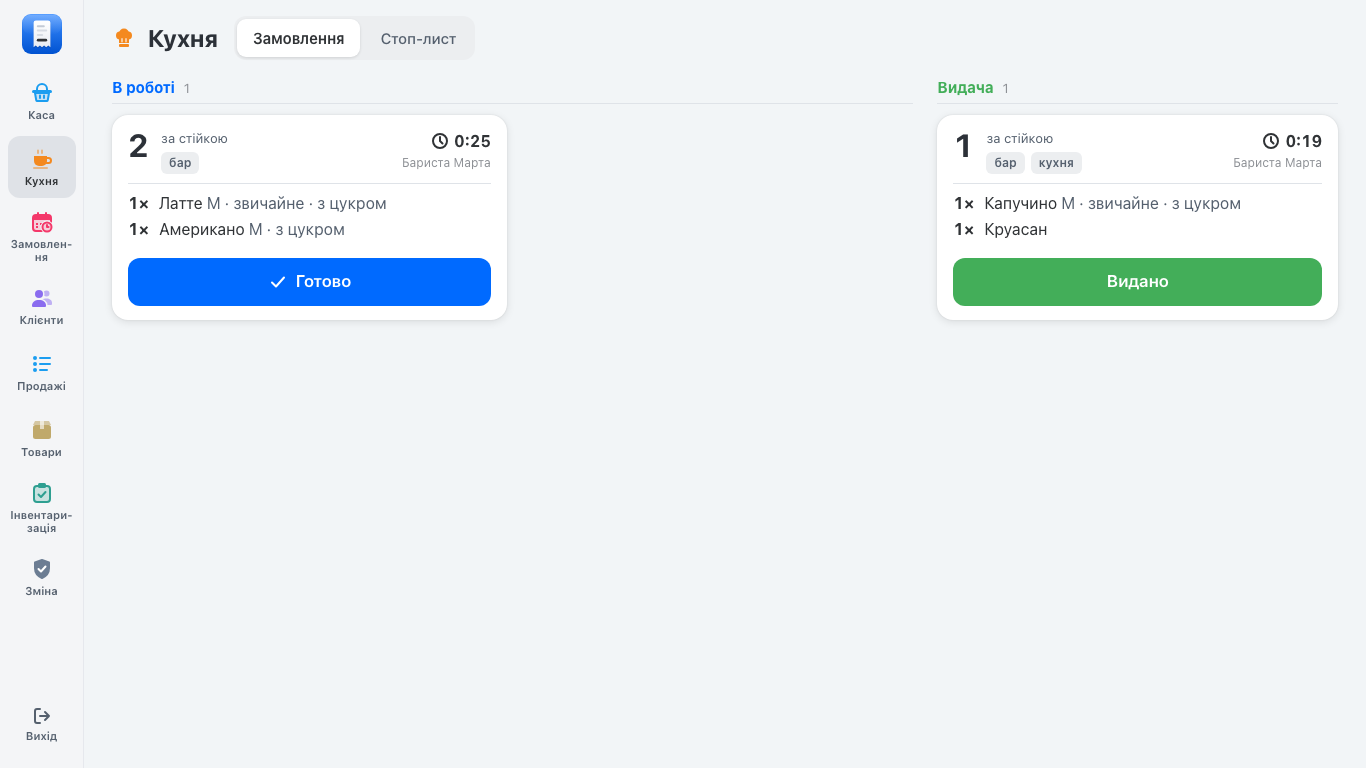
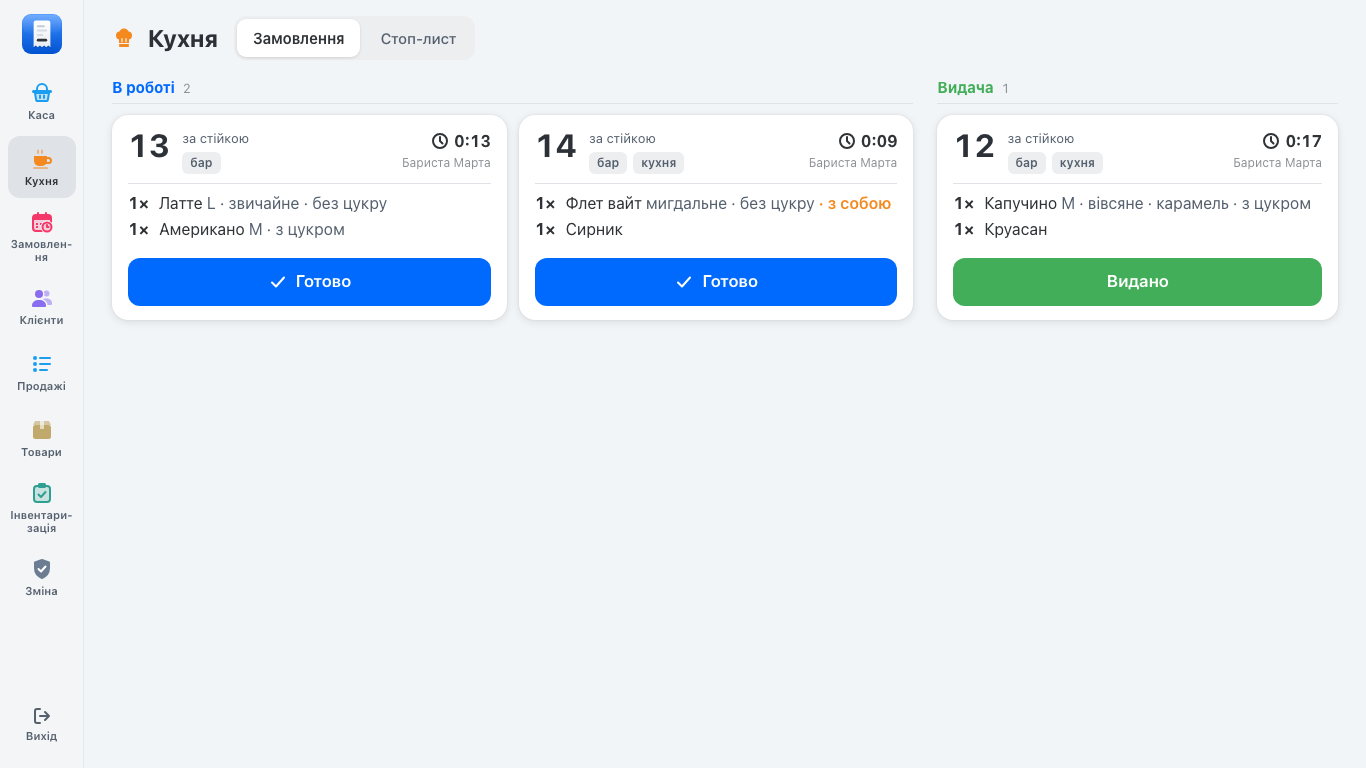
Сайт: свіжі знімки кафе й ресторану — жива кухня, аналітика, дашборд власника (#328)
* Сайт: свіжі знімки кафе — жива кухня, каса без «немає», рядок «Аналітика» з матрицею меню

Демо-кафе на проді отримало місяць історії (1261 чек 20.09–26.10, прихід,
виробництво сендвічів, списання за причинами кухні), тож знімки — з даними:

- cafe-kitchen: три замовлення, «В роботі» і «Видача» (старий знімок
  вересня, а дошка показує лише сьогоднішні);
- cafe-register: усі плитки в наявності, без сірого «Сирник — немає»;
- cafe-analytics: «Меню й кухня» — фудкост, середній чек, замовлення за
  годинами і матриця меню; новий рядок «Аналітика» на /pos/kafe під
  функцією cafeMenuMatrix, яка досі була лише пунктом без картинки.

shoot-site-screens: аналітику знімає після того, як вона порахувалась
(чекає cafe-food-cost, а не «Рахуємо…»), дашборд — після networkidle.
sitemap-lastmod: /pos/kafe і /pos/restoran (на ньому той самий знімок кухні).

* Сайт: дашборд власника — рядок «Сьогодні» на /pos/kafe і «Власник» на /pos/restoran

- cafe-dashboard: «Останні 30 днів» демо-кафе — виторг, чеки, середній чек,
  «Усе гаразд», кухонні плитки і дохід за днями; рядок «Сьогодні» перед
  «Аналітикою».
- restaurant-dashboard: те саме для демо-ресторану (705 рахунків за місяць,
  проведені через API столів і зсунуті в часі) з плиткою «Середній чек на
  стіл · рахунків · хв», якої в кав'ярні немає; рядок «Власник» після
  «Розрахунку», що досі був без картинки.
- shoot-site-screens: крок restaurant-dashboard на ширину каси й 900 px
[…]

diff --git a/site/src/content/verticals/kafe.ts b/site/src/content/verticals/kafe.ts
@@ -4,6 +4,8 @@ import cafeRegister from '../../assets/screenshots/cafe-register.png';
 import cafeModifiers from '../../assets/screenshots/cafe-modifiers.png';
 import cafeKitchen from '../../assets/screenshots/cafe-kitchen.png';
 import cafeTechCards from '../../assets/screenshots/cafe-tech-cards.png';
+import cafeAnalytics from '../../assets/screenshots/cafe-analytics.png';
+import cafeDashboard from '../../assets/screenshots/cafe-dashboard.png';
 import cafeQrMenu from '../../assets/screenshots/cafe-qr-menu.png';
 import cafeQrMenuFacts from '../../assets/screenshots/cafe-qr-menu-facts.png';
 
@@ -66,6 +68,36 @@ export const kafe: VerticalContent = {
         'Матриця меню: зірки, конячки, загадки, собаки — з порадою до кожної',
       ],
       shot: { src: cafeTechCards, alt: 'Сторінка «Техкарти»: страви, собівартість і фудкост у відсотках' },
+    },
+    {
+      eyebrow: 'Сьогодні',
+      title: 'Виторг, чеки й кухня — на першому екрані кабінету',
+      body:
+        'Кабінет власника відкривається сторінкою «Сьогодні»: виторг, кількість чеків, середній чек і повернення, під ними — дохід за днями. Поруч кухонні цифри: фудкост, година пік і відповідь модифікатора, яку обирають найчастіше. «Потребують уваги» нагадує, що закінчується на складі, а якщо все гаразд — так і пише.',
+      bullets: [
+        'Період одним тапом: сьогодні, 7 днів, 30 днів, місяць або свій',
+        'Вивантаження в CSV — для бухгалтера чи власної таблиці',
+        '«Докладніше» веде до матриці меню й списань кухні',
+      ],
+      shot: {
+        src: cafeDashboard,
+        alt: 'Сторінка «Сьогодні» за 30 днів: виторг, чеки, середній чек, фудкост, година пік і дохід за днями',
+      },
+    },
+    {
+      eyebrow: 'Аналітика',
+      title: 'Що тримати в меню, що переписати цінником і що прибрати',
+      body:
+        'Сторінка «Меню й кухня» за тиждень, місяць чи квартал: фудкост проданого, середній чек, замовлення за годинами доби і матриця меню. Кожна позиція потрапляє в зірки, робочі конячки, загадки чи собаки — за тим, як часто її беруть і скільки лишається з одиниці, — і до кожної групи є порада. Поки продажів замало для висновку, цифри видно, а на групи меню не ділиться.',
+      bullets: [
+        'Пік замовлень за годинами — скільки людей ставити на зміну',
+        'Списання кухні за причинами: зіпсувалося, проба, харчування персоналу',
+        'Найчастіші відповіді модифікаторів — що варто зробити типовим',
+      ],
+      shot: {
+        src: cafeAnalytics,
+        alt: 'Сторінка «Меню й кухня»: фудкост, виторг, середній чек, замовлення за годинами доби і матриця меню із зірками та робочими конячками',
+      },
     },
     {
       eyebrow: 'QR-меню',

diff --git a/site/src/content/verticals/restoran.ts b/site/src/content/verticals/restoran.ts
@@ -18,6 +18,7 @@ import {
 import restaurantTables from '../../assets/screenshots/restaurant-tables.png';
 import restaurantHallEditor from '../../assets/screenshots/restaurant-hall-editor.png';
 import cafeKitchen from '../../assets/screenshots/cafe-kitchen.png';
+import restaurantDashboard from '../../assets/screenshots/restaurant-dashboard.png';
 import restaurantQrMenu from '../../assets/screenshots/restaurant-qr-menu.png';
 import restaurantQrMenuFacts from '../../assets/screenshots/restaurant-qr-menu-facts.png';
 import restaurantGuestOrder from '../../assets/screenshots/restaurant-guest-order.png';
@@ -97,6 +98,21 @@ export const restoran: VerticalContent = {
       body:
         'Передчек друкується на десктопній касі і чесно каже «не є розрахунковим документом»: за законом лише фіскальний чек є розрахунковим. Рахунок можна сплатити весь, за стравами (кожному свій чек) або порівну на N (один чек, кілька оплат). Знижка на рахунок рахується раз і ділиться між частинами.',
       bullets: ['За стравами — N фіскальних чеків', 'Порівну — один чек, N оплат', 'Рахунок можна перенести на інший стіл'],
+    },
+    {
+      eyebrow: 'Власник',
+      title: 'Скільки заробив зал і скільки сидять за столом',
+      body:
+        'Кабінет власника відкривається сторінкою «Сьогодні»: виторг, кількість чеків, середній чек і повернення, під ними — дохід за днями. Для ресторану там є ще середній чек на стіл: скільки рахунків закрито і скільки хвилин у середньому сидять гості. Поруч кухонні цифри — фудкост за останніми цінами закупівлі, година пік і відповідь модифікатора, яку обирають найчастіше.',
+      bullets: [
+        'Середній чек на стіл і час за столом — за будь-який період',
+        '«Меню й кухня»: матриця меню і списання кухні за причинами',
+        'Вивантаження в CSV — для бухгалтера чи власної таблиці',
+      ],
+      shot: {
+        src: restaurantDashboard,
+        alt: 'Сторінка «Сьогодні» ресторану за 30 днів: виторг, середній чек на стіл і час за столом, фудкост, година пік і дохід за днями',
+      },
     },
     {
       eyebrow: 'QR-меню',
